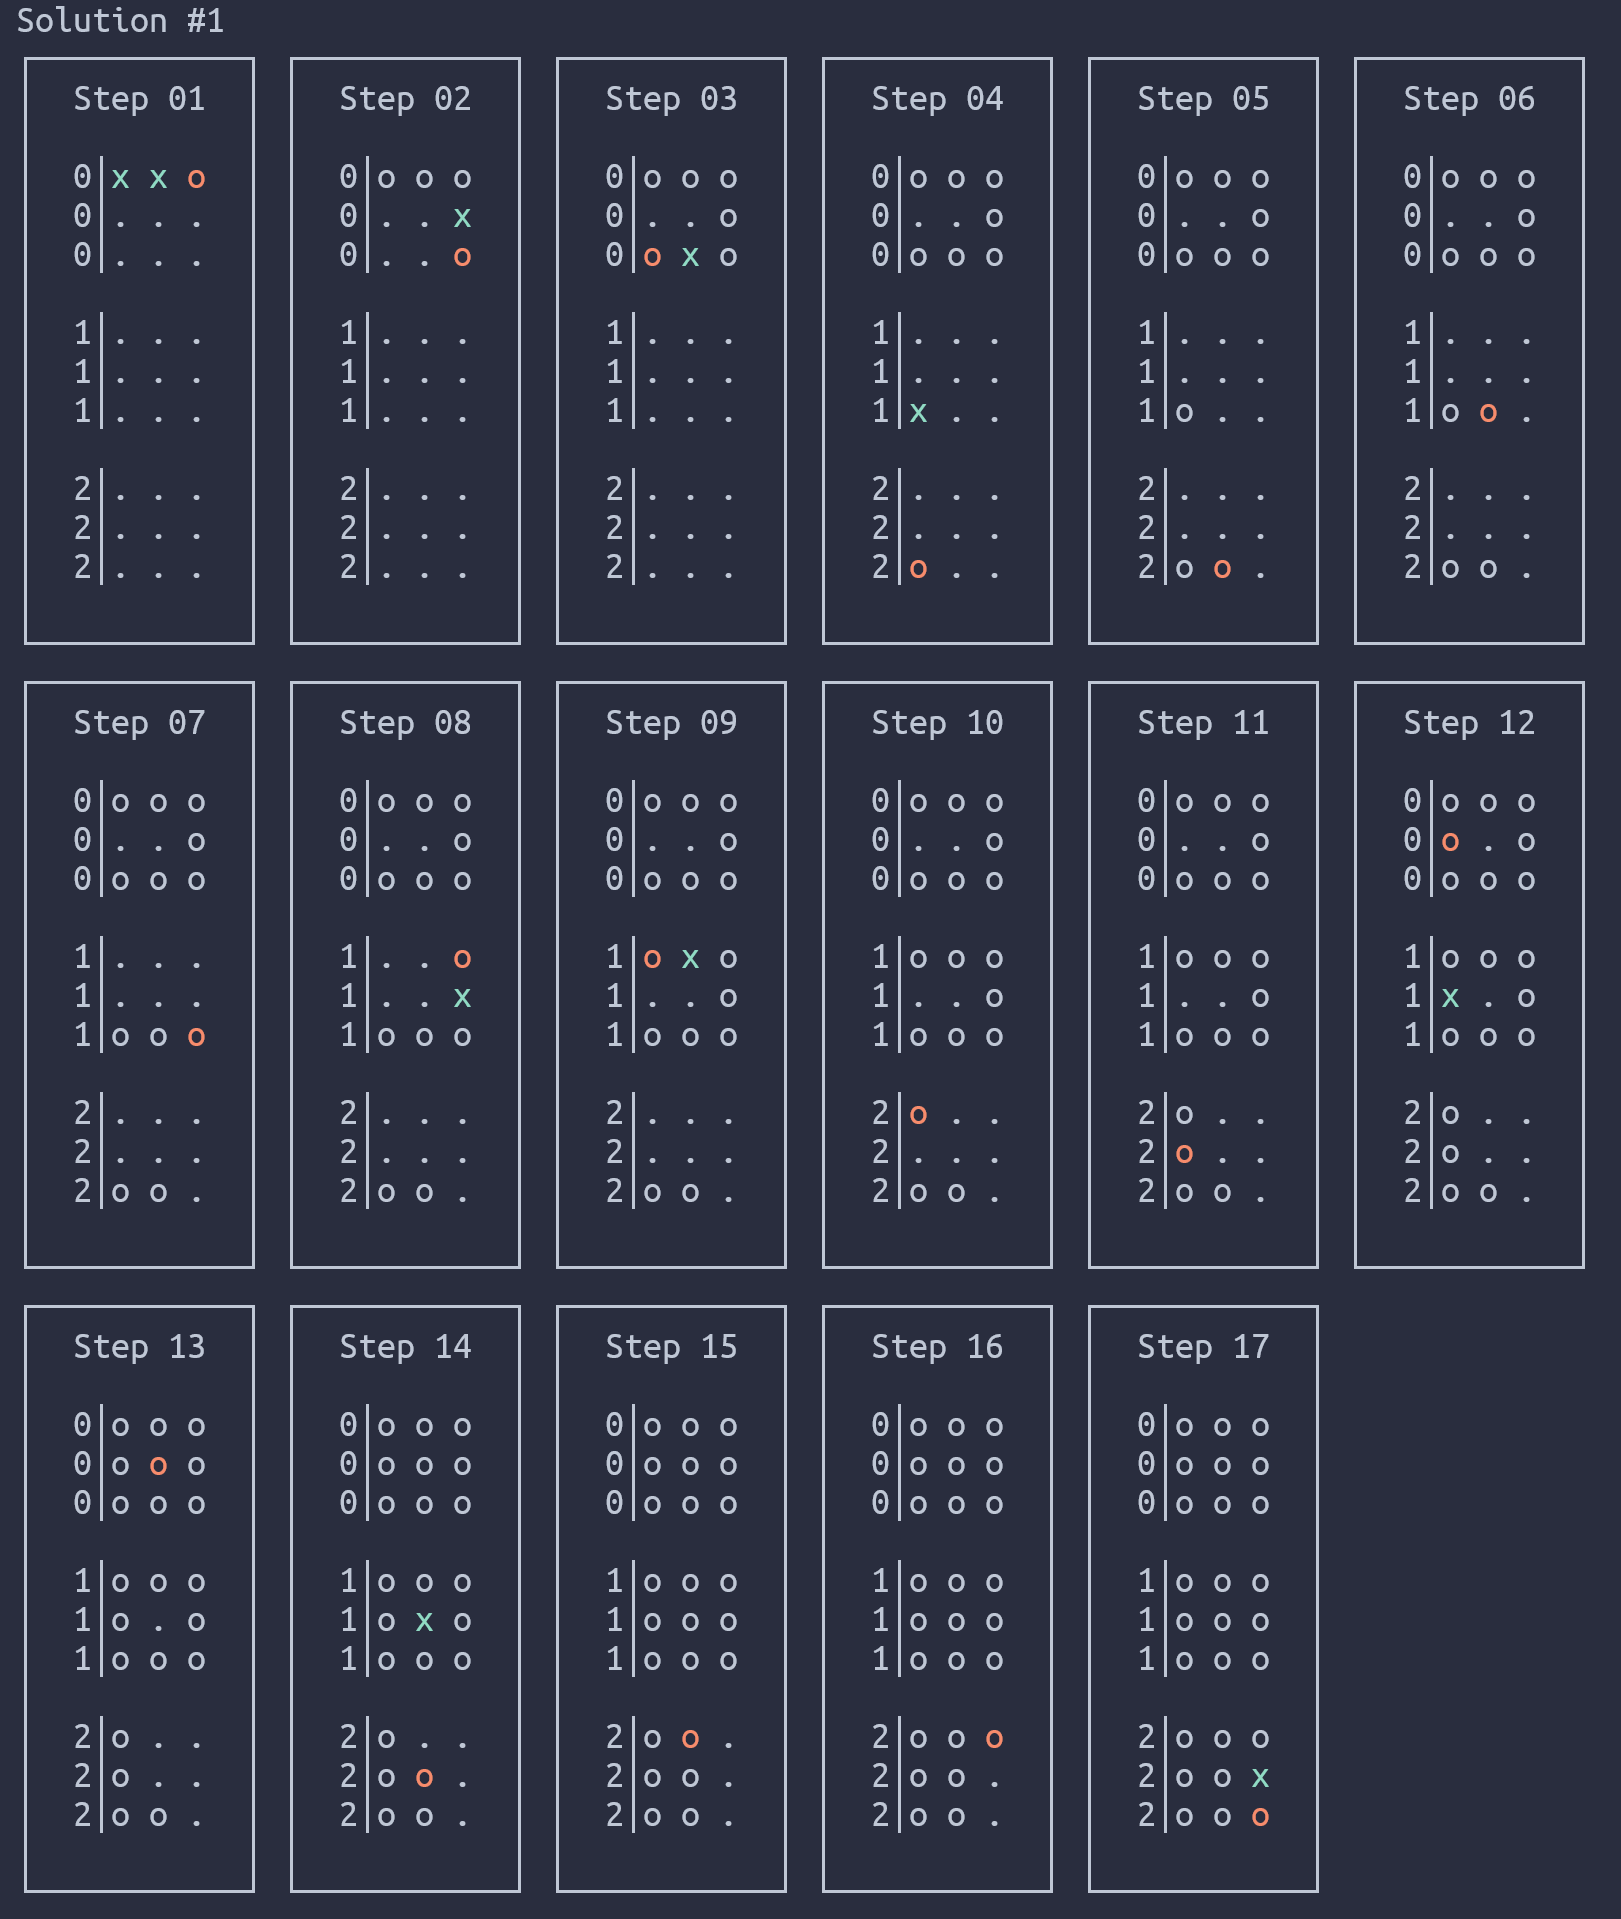
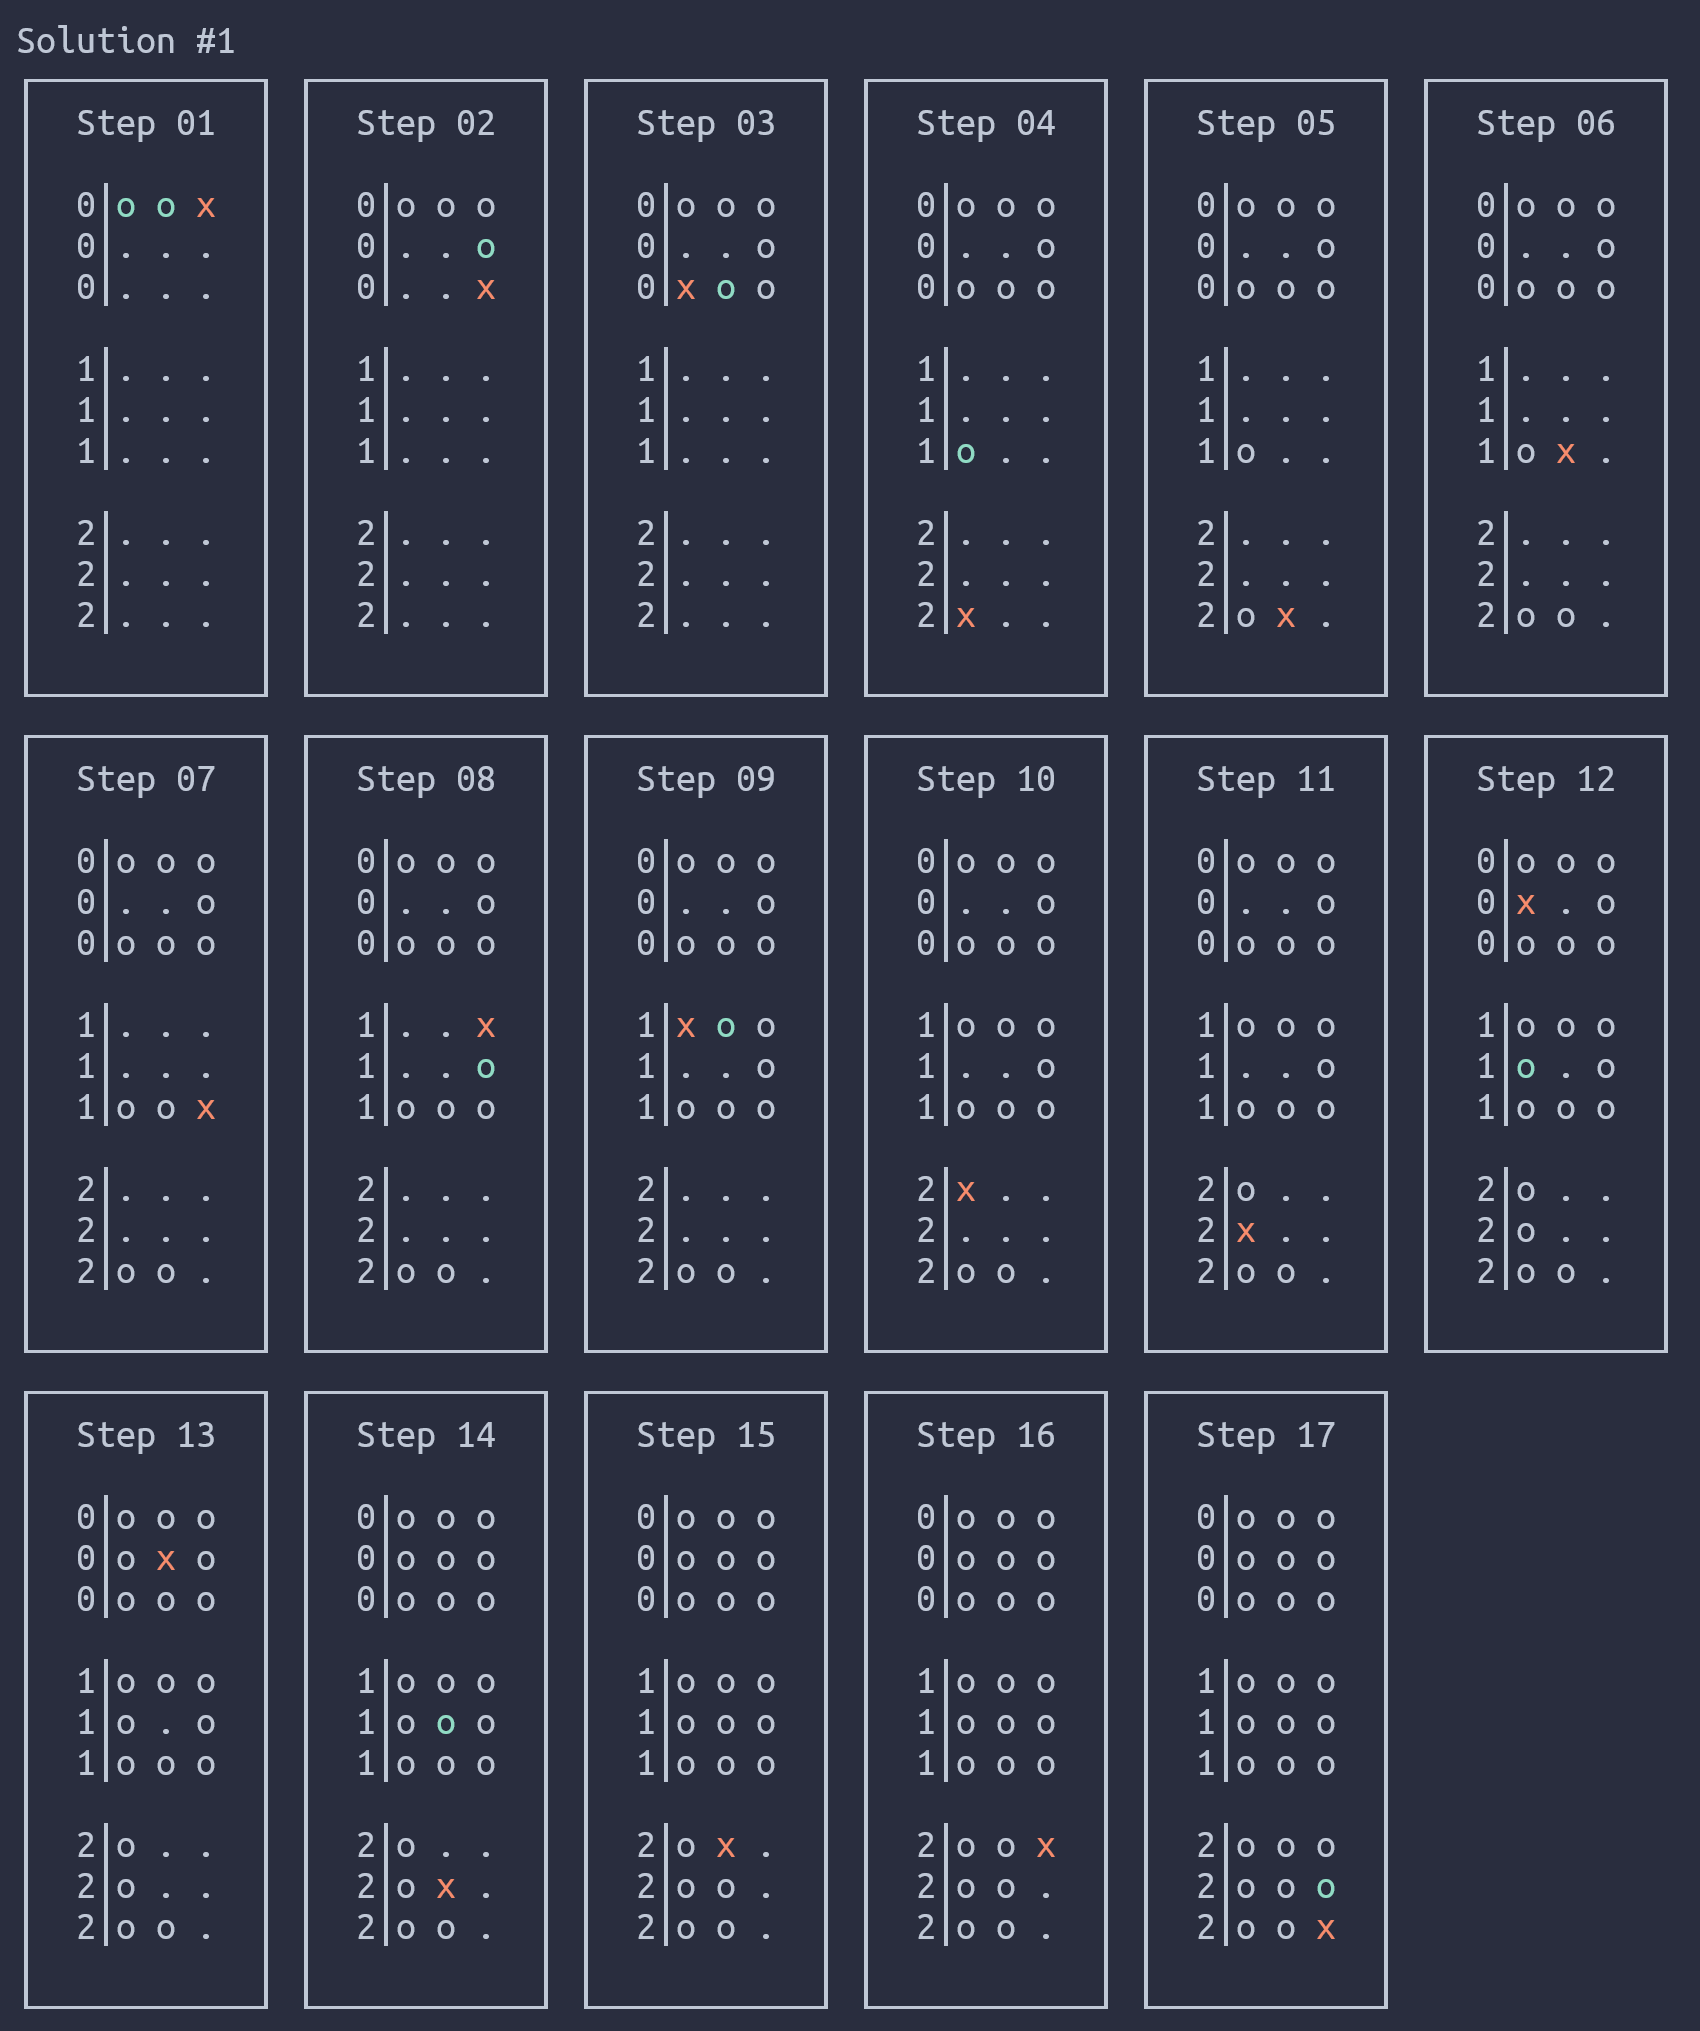
even better output

diff --git a/py/cube_snake_puzzle.py b/py/cube_snake_puzzle.py
@@ -164,9 +164,9 @@ class CubeHistoryState:
             out += f"{i // 9}│"
          if e:
             if i == last_step:
-               out += colored("o ", "yellow")
+               out += colored("x ", "yellow")
             elif i in middle_steps:
-               out += colored("x ", "cyan")
+               out += colored("o ", "cyan")
             else:
                out += "o "
          else:
